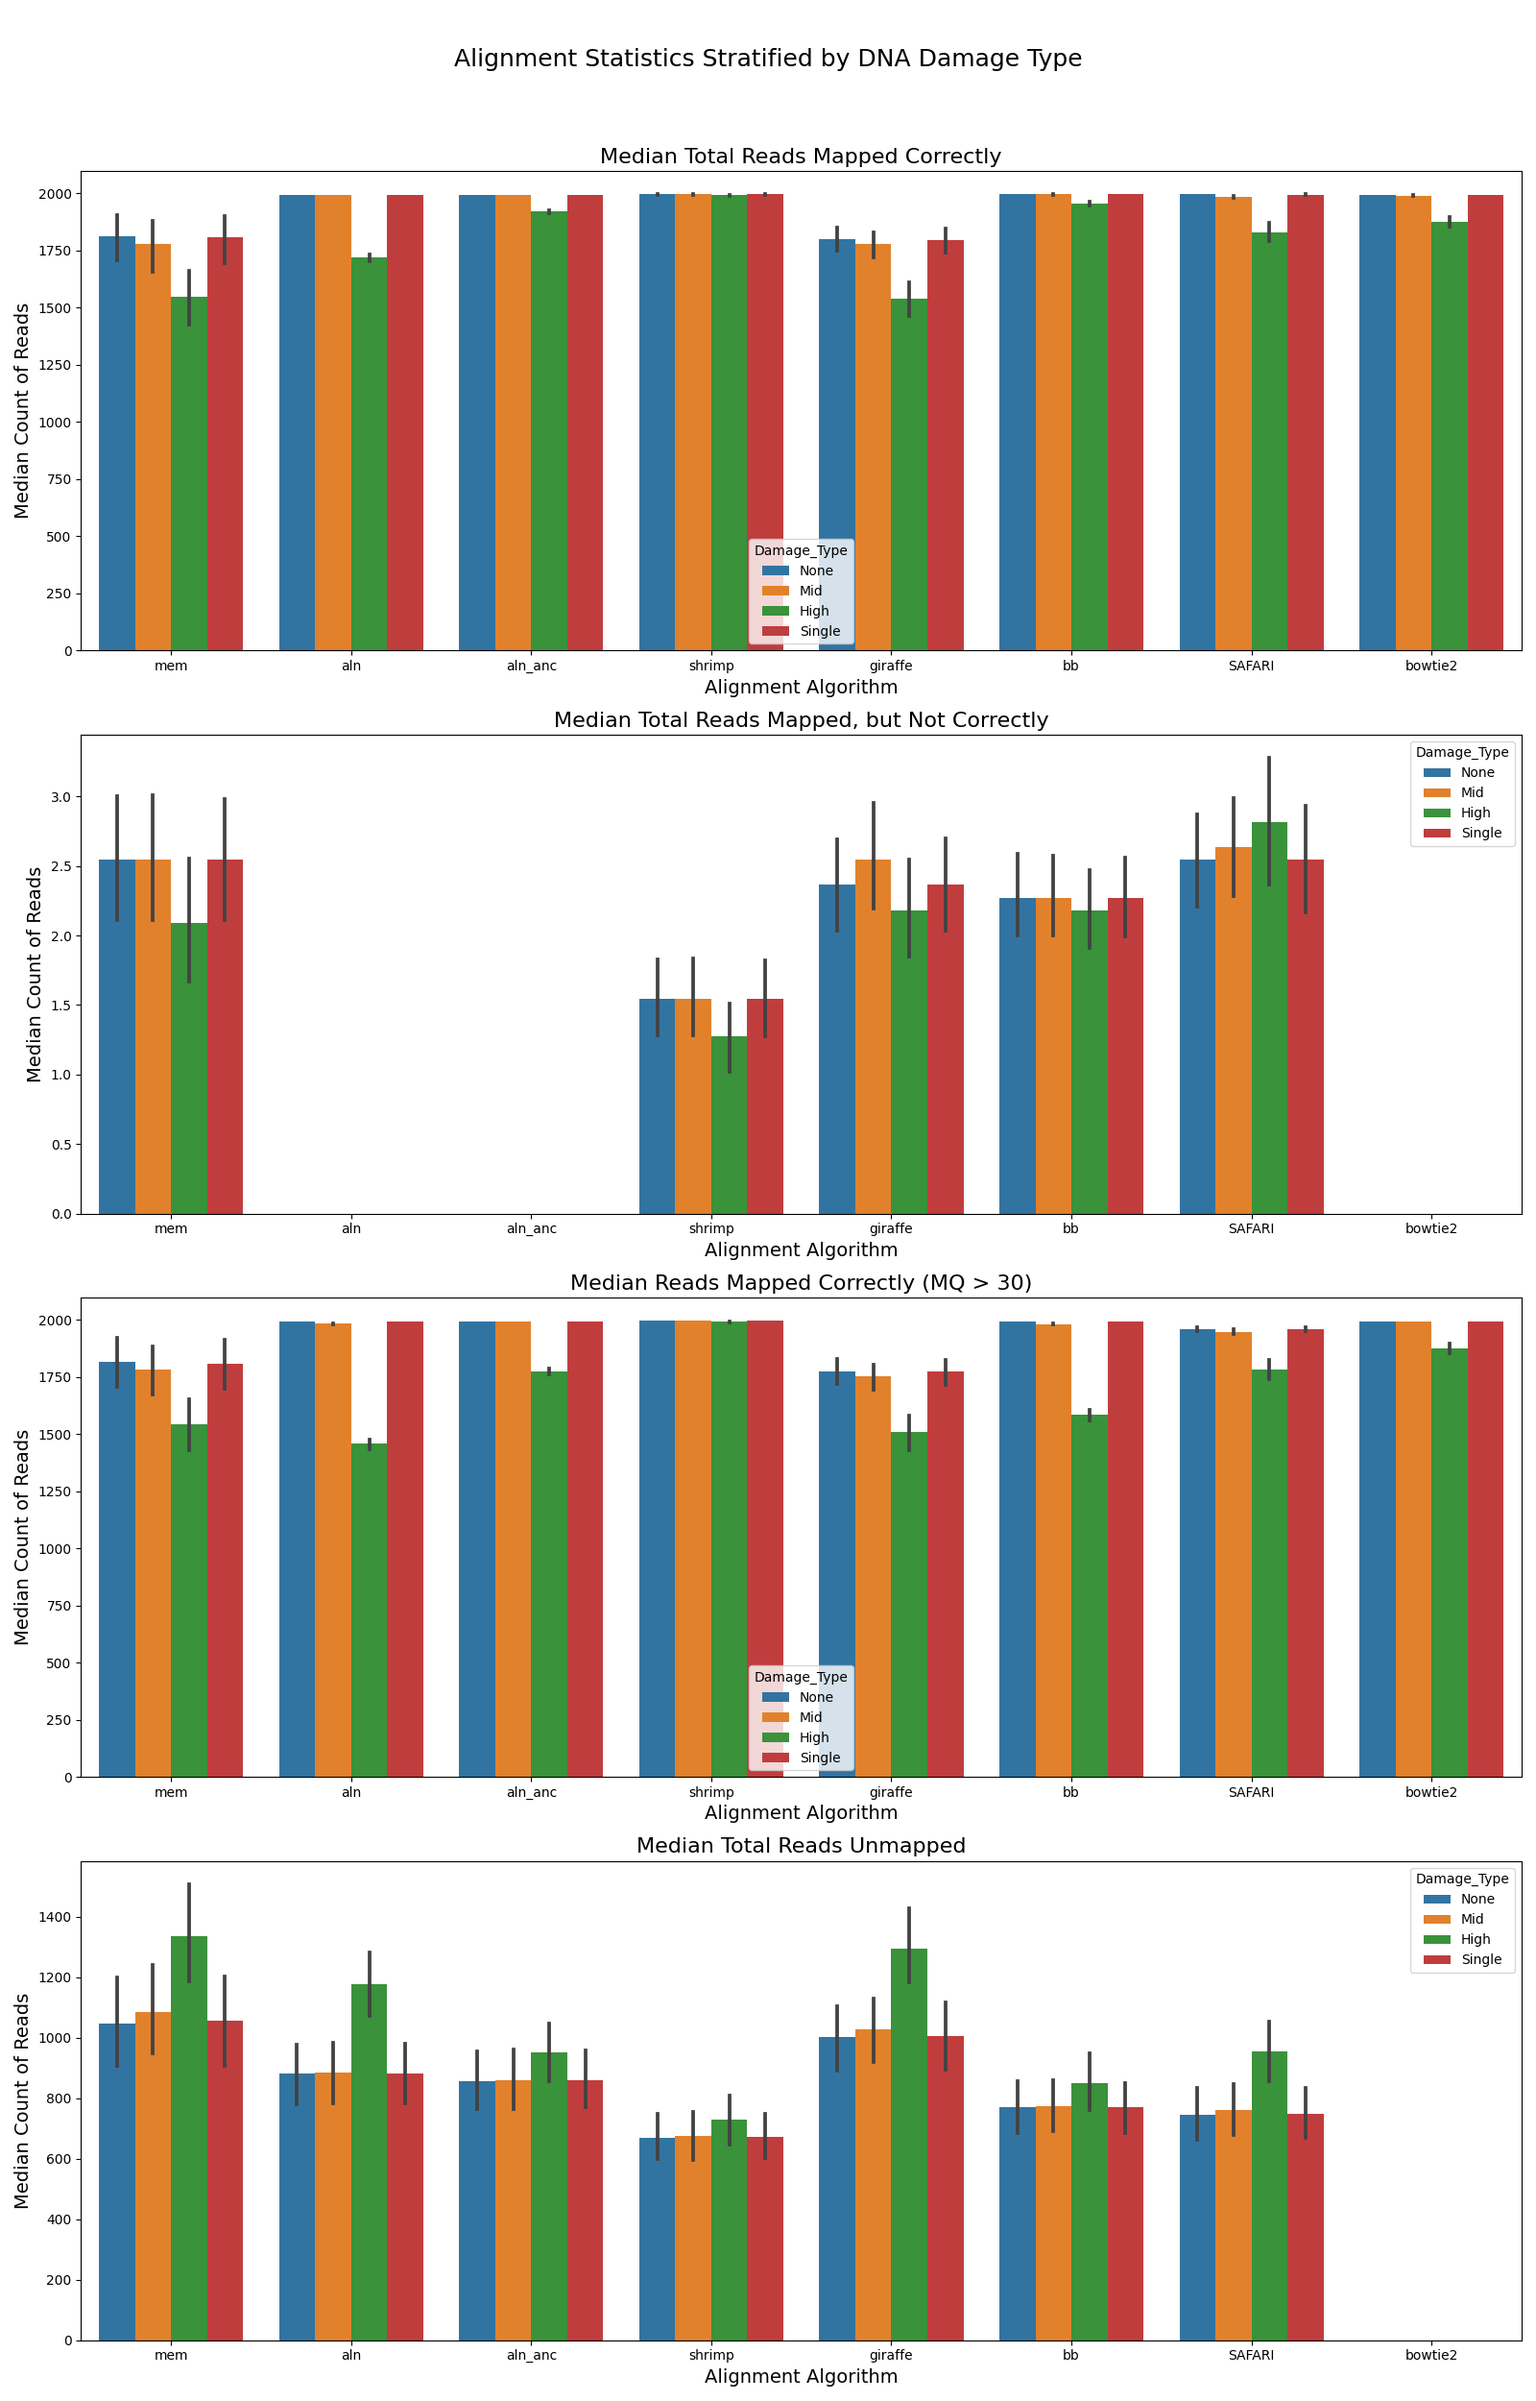
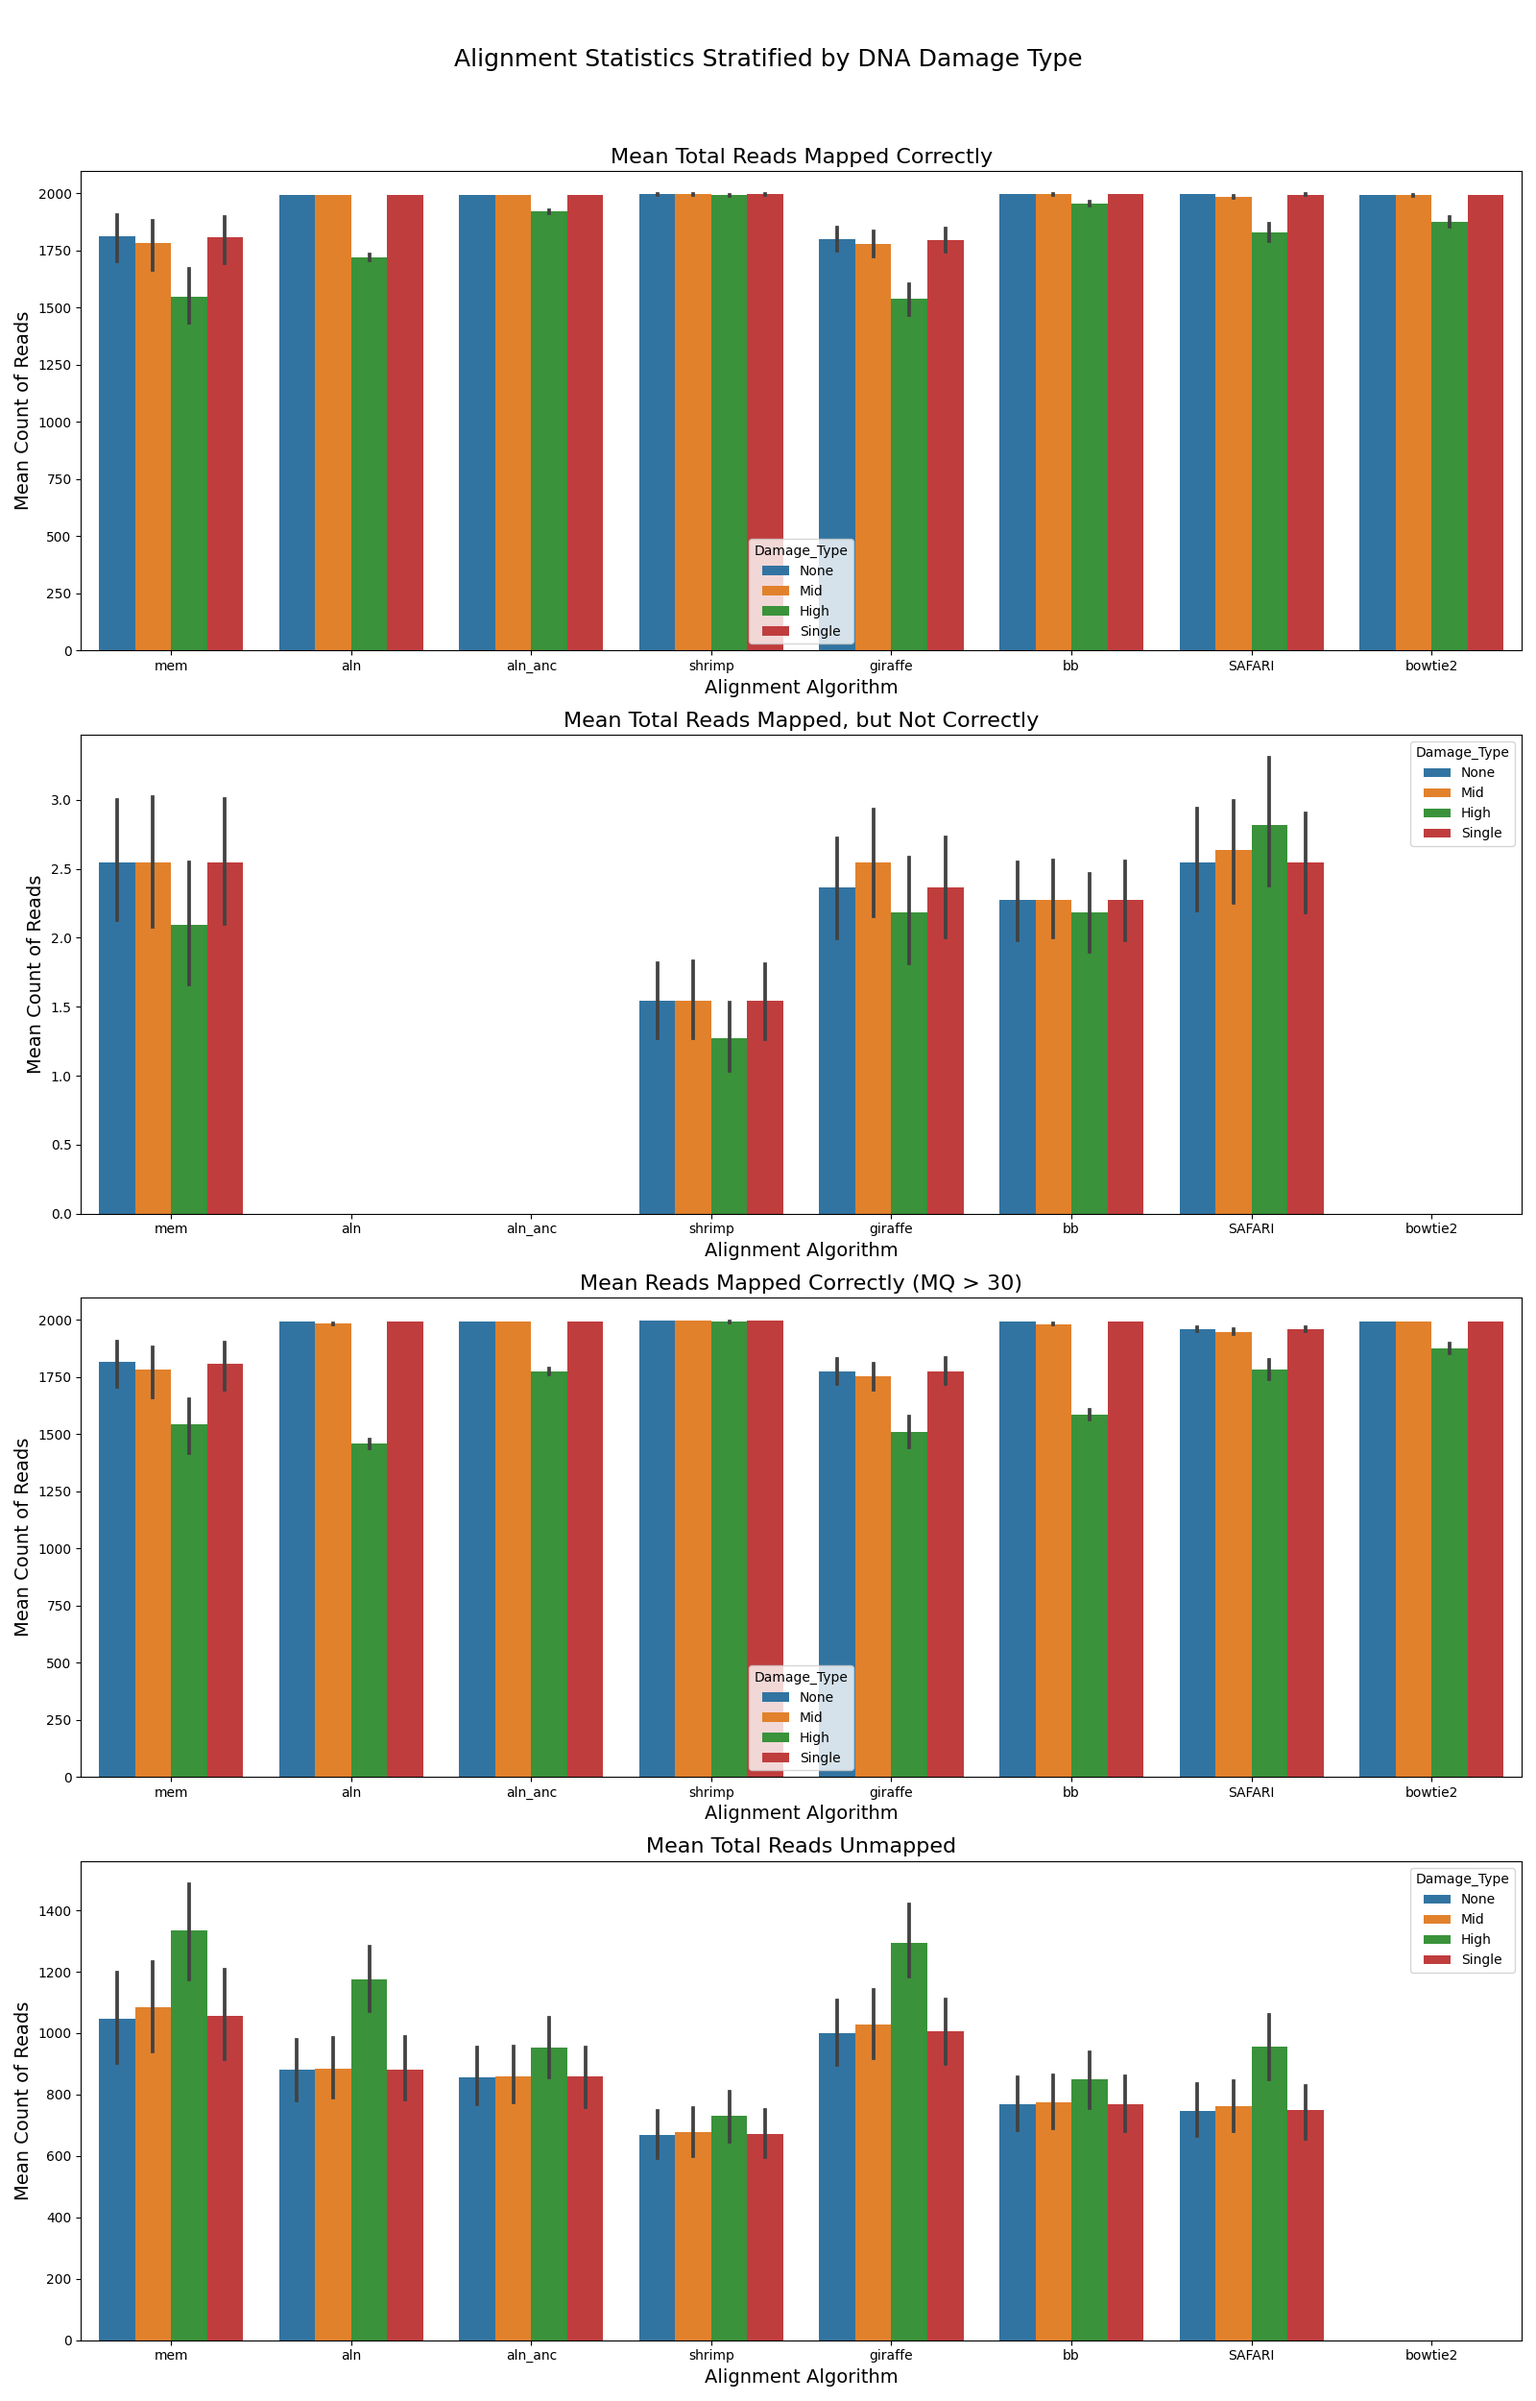
Update

diff --git a/linear_experiment/human_mito/linear_benchmark.py b/linear_experiment/human_mito/linear_benchmark.py
@@ -9,7 +9,7 @@ def create_new_plot(df, file_name, title):
     df['Mapped_NOT_Correctly'] = df['Mapped_to_MT'] - df['Mapped_to_MT_Correct_Location']
     df['Damage_Type'] = df['Damage_Type'].astype('category').cat.reorder_categories(damage_type_order, ordered=True).map(damage_type_rename)
     df['Aligner_Name'] = df['Aligner_Name'].replace('safari', 'SAFARI')
-    questions_columns = [("Median Total Reads Mapped Correctly", "Mapped_to_MT_Correct_Location"), ("Median Total Reads Mapped, but Not Correctly", "Mapped_NOT_Correctly"), ("Median Reads Mapped Correctly (MQ > 30)", "Mapped_to_MT_Correct_Location_MQ>30"), ("Median Total Reads Unmapped", "Unmapped_Reads")]
+    questions_columns = [("Mean Total Reads Mapped Correctly", "Mapped_to_MT_Correct_Location"), ("Mean Total Reads Mapped, but Not Correctly", "Mapped_NOT_Correctly"), ("Mean Reads Mapped Correctly (MQ > 30)", "Mapped_to_MT_Correct_Location_MQ>30"), ("Mean Total Reads Unmapped", "Unmapped_Reads")]
 
     fig, axes = plt.subplots(len(questions_columns), 1, figsize=(16, 25))
     fig.suptitle(title, fontsize=18, color='black')
@@ -18,10 +18,10 @@ def create_new_plot(df, file_name, title):
         sns.barplot(x="Aligner_Name", y=column, hue="Damage_Type", data=df, ax=ax, hue_order=['None', 'Mid', 'High', 'Single'])
         ax.set_title(label, fontsize=16)
         ax.set_xlabel("Alignment Algorithm", fontsize=14)
-        ax.set_ylabel("Median Count of Reads", fontsize=14)
+        ax.set_ylabel("Mean Count of Reads", fontsize=14)
         
-        # Compute Median values for each aligner by damage type
-        table_df = df.groupby(['Aligner_Name', 'Damage_Type'])[column].median().unstack()
+        # Compute Mean values for each aligner by damage type
+        table_df = df.groupby(['Aligner_Name', 'Damage_Type'])[column].mean().unstack()
         
         # Print Latex table
         table = table_df.to_latex()
